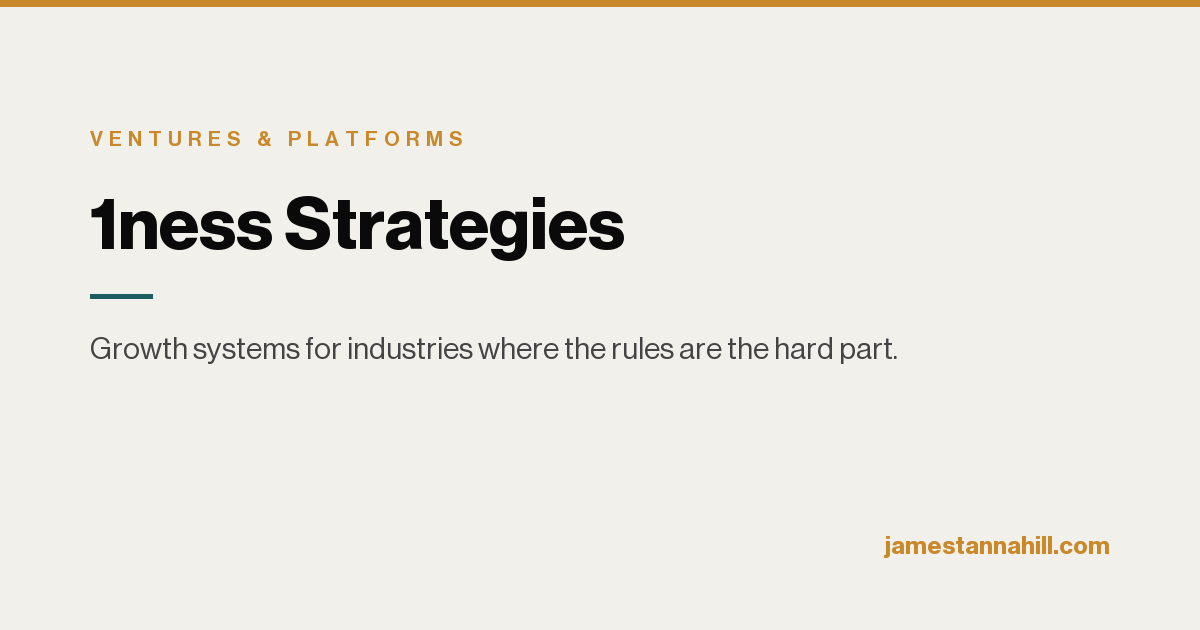
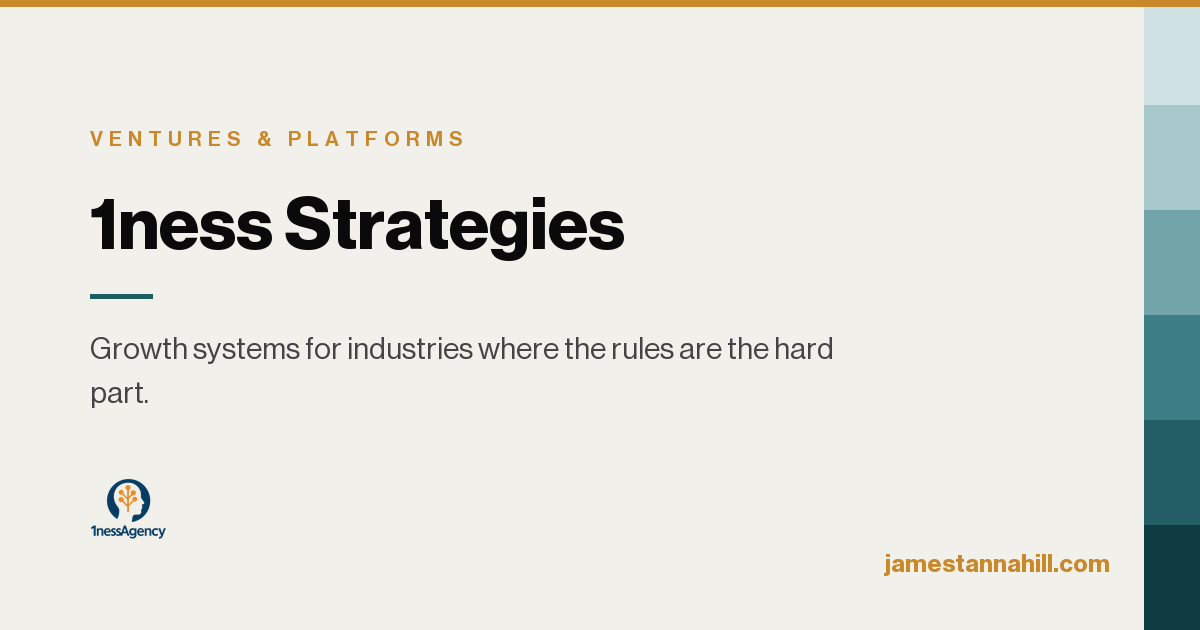
Venture cards and pages: richer OG art, link RDLB Agentic in body copy
OG cards gain the venture's own logo in the bottom left, multiply-blended
so marks supplied on a white plate do not stamp a box onto the ivory, and
a marine ramp rail down the right edge echoing the Competencies section
so an unfurled link reads as part of the same site. logo_file=None now
means no mark rather than silently falling back to a slug-named file.

Body copy can also carry inline links: phrases listed in `links` are
matched after escaping, so RDLB Agentic now points at rdlbagentic.com.

diff --git a/src/data/ventures.ts b/src/data/ventures.ts
@@ -14,6 +14,8 @@ export interface VenturePage {
   record: string[];
   /** Body paragraphs. The first is set as the lead. */
   body: string[];
+  /** Phrases inside `body` to turn into outbound links, matched literally. */
+  links?: { text: string; url: string }[];
   /** Title and description for the page's own metadata. */
   metaTitle: string;
   metaDescription: string;
@@ -90,6 +92,7 @@ export const ventures: Venture[] = [
         'Brand work aimed at capital audiences is a different discipline from brand work aimed at consumers. An LP or a counterparty is not persuaded by aesthetics, they are persuaded by coherence, by a firm whose stated thesis, published work, and actual behavior all describe the same institution. The output is closer to systems design than to campaigns.',
         'RDLB Agentic extends that into software, building the AI-native systems that carry positioning through to execution rather than leaving it in a deck.',
       ],
+      links: [{ text: 'RDLB Agentic', url: 'https://rdlbagentic.com/' }],
       metaTitle: 'RDLB - James Tannahill',
       metaDescription: 'Strategic brand architecture for investors and operators: positioning, narrative systems, and go-to-market structure, extended into AI-native execution by RDLB Agentic.',
     },

diff --git a/scripts/gen-og-ventures.py b/scripts/gen-og-ventures.py
@@ -1,16 +1,23 @@
 """OG cards for the /ventures/<slug>/ pages.
 
-No artwork here, unlike the essay cards. A venture card is a nameplate: ivory
-ground, amber hairline, the venture name set large in NHG Display, and the thesis
-line under a marine rule. No role title: the card names the venture, not the
-holder. The marine matches the record strip on the page itself.
+No artwork here, unlike the essay cards. A venture card is a nameplate on ivory:
+amber hairline at the top, the venture name set large in NHG Display, the thesis
+under a marine rule, and the venture's own logo in the bottom left so a pasted
+link is recognisable before it is read. No role title: the card names the
+venture, not the holder.
+
+The right edge carries the same marine ramp the Competencies section uses on the
+site, cool at the top and deep at the bottom, which is what ties an unfurled
+link back to the page it came from.
 """
 from fontTools.ttLib import TTFont
-from PIL import Image, ImageDraw, ImageFont
+from PIL import Image, ImageChops, ImageDraw, ImageFont
 import pathlib
 
 SRC = pathlib.Path.home() / "jamestannahill-map/fonts"
-OUT = pathlib.Path(__file__).resolve().parent.parent / "public"
+ROOT = pathlib.Path(__file__).resolve().parent.parent
+OUT = ROOT / "public"
+LOGOS = ROOT / "public/logos"
 TMP = pathlib.Path(__file__).parent / "ttf"
 TMP.mkdir(exist_ok=True)
 
@@ -19,7 +26,17 @@ MARINE = (29, 92, 99)
 INK = (10, 10, 10)
 BODY = (68, 68, 68)
 IVORY = (242, 240, 235)
+# Cool to deep, the same seven steps the Competencies rows mix between.
+RAMP = [
+    (207, 225, 226),
+    (168, 201, 204),
+    (113, 165, 170),
+    (62, 127, 135),
+    (35, 94, 102),
+    (15, 59, 67),
+]
 W, H = 1200, 630
+RAIL = 56  # width of the ramp rail on the right edge
 
 
 def ttf(name):
@@ -56,8 +73,40 @@ def wrap(draw, text, font, width):
     return lines
 
 
-def card(slug, name, thesis):
+def rail(img):
+    """The marine ramp down the right edge, one block per step."""
+    d = ImageDraw.Draw(img)
+    step = H / len(RAMP)
+    for n, colour in enumerate(RAMP):
+        d.rectangle([W - RAIL, round(n * step), W, round((n + 1) * step)], fill=colour)
+
+
+def logo(img, slug, box_h=62):
+    """Flatten the venture logo onto ivory at a fixed height, bottom left.
+
+    Returns the width drawn, or 0 when the venture has no logo file, so the
+    caller can fall back to setting its name instead.
+    """
+    path = LOGOS / f"{slug}.png"
+    if not path.exists():
+        return 0
+    src = Image.open(path).convert("RGBA")
+    scale = box_h / src.height
+    src = src.resize((max(1, round(src.width * scale)), box_h), Image.LANCZOS)
+
+    # Flatten onto white, then multiply into the ivory ground. Same result as
+    # the site's mix-blend-mode: multiply, so logos supplied on a white plate
+    # (RDLB, NewYorkLab) do not stamp a white box onto the card.
+    white = Image.new("RGBA", src.size, (255, 255, 255, 255))
+    flat = Image.alpha_composite(white, src).convert("RGB")
+    box = (90, H - 90 - box_h, 90 + src.width, H - 90)
+    img.paste(ImageChops.multiply(img.crop(box), flat), box)
+    return src.width
+
+
+def card(slug, name, thesis, logo_file=None):
     img = Image.new("RGB", (W, H), IVORY)
+    rail(img)
     d = ImageDraw.Draw(img)
     d.rectangle([0, 0, W, 6], fill=AMBER)
 
@@ -65,11 +114,13 @@ def card(slug, name, thesis):
     f_name = ImageFont.truetype(BOLD, 72)
     f_thesis = ImageFont.truetype(ROMAN, 30)
 
+    text_w = W - 180 - RAIL
+
     x, y = 90, 128
     tracked(d, (x, y), "VENTURES & PLATFORMS", f_eyebrow, AMBER, 6)
 
     y += 62
-    for line in wrap(d, name, f_name, W - 180):
+    for line in wrap(d, name, f_name, text_w):
         d.text((x, y), line, font=f_name, fill=INK)
         y += 84
 
@@ -77,14 +128,19 @@ def card(slug, name, thesis):
     d.rectangle([x, y, x + 62, y + 4], fill=MARINE)
 
     y += 40
-    for line in wrap(d, thesis, f_thesis, 820):
+    for line in wrap(d, thesis, f_thesis, 780):
         d.text((x, y), line, font=f_thesis, fill=BODY)
         y += 44
+
+    # Bottom left: the venture's own mark, when it has one. logo_file=None
+    # means no mark, rather than falling back to a file named for the slug.
+    if logo_file:
+        logo(img, logo_file)
 
     url = "jamestannahill.com"
     f_url = ImageFont.truetype(BOLD, 24)
     w = d.textlength(url, font=f_url)
-    d.text((W - 90 - w, H - 96), url, font=f_url, fill=AMBER)
+    d.text((W - RAIL - 34 - w, H - 78), url, font=f_url, fill=AMBER)
 
     path = f"og-venture-{slug}.png"
     img.save(OUT / path, optimize=True)
@@ -93,15 +149,20 @@ def card(slug, name, thesis):
 
 CARDS = [
     ("plocamium", "Plocamium Holdings",
-     "Patient capital in the businesses that keep industry and care running."),
+     "Patient capital in the businesses that keep industry and care running.",
+     "plocamium"),
     ("prosec", "PROSEC Defense Group",
-     "Readiness engineered before the crisis, not assembled during it."),
+     "Readiness engineered before the crisis, not assembled during it.",
+     None),
     ("rdlb", "RDLB",
-     "Positioning built as infrastructure, for firms whose product is trust."),
+     "Positioning built as infrastructure, for firms whose product is trust.",
+     "rdlb"),
     ("1ness", "1ness Strategies",
-     "Growth systems for industries where the rules are the hard part."),
+     "Growth systems for industries where the rules are the hard part.",
+     "1nessagency"),
     ("newyorklab", "NewYorkLab",
-     "Instrumenting the city so its decisions can be made on evidence."),
+     "Instrumenting the city so its decisions can be made on evidence.",
+     "newyorklab"),
 ]
 
 for c in CARDS:
